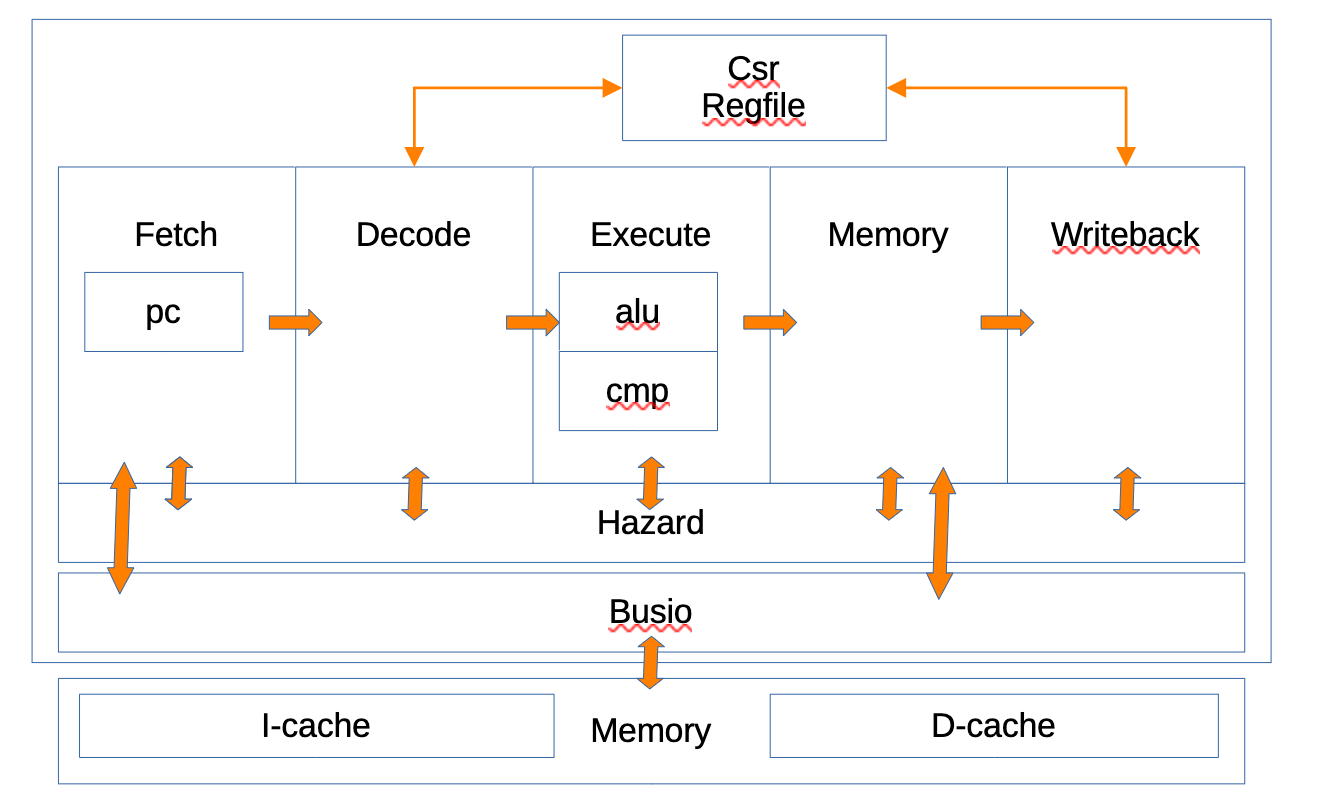
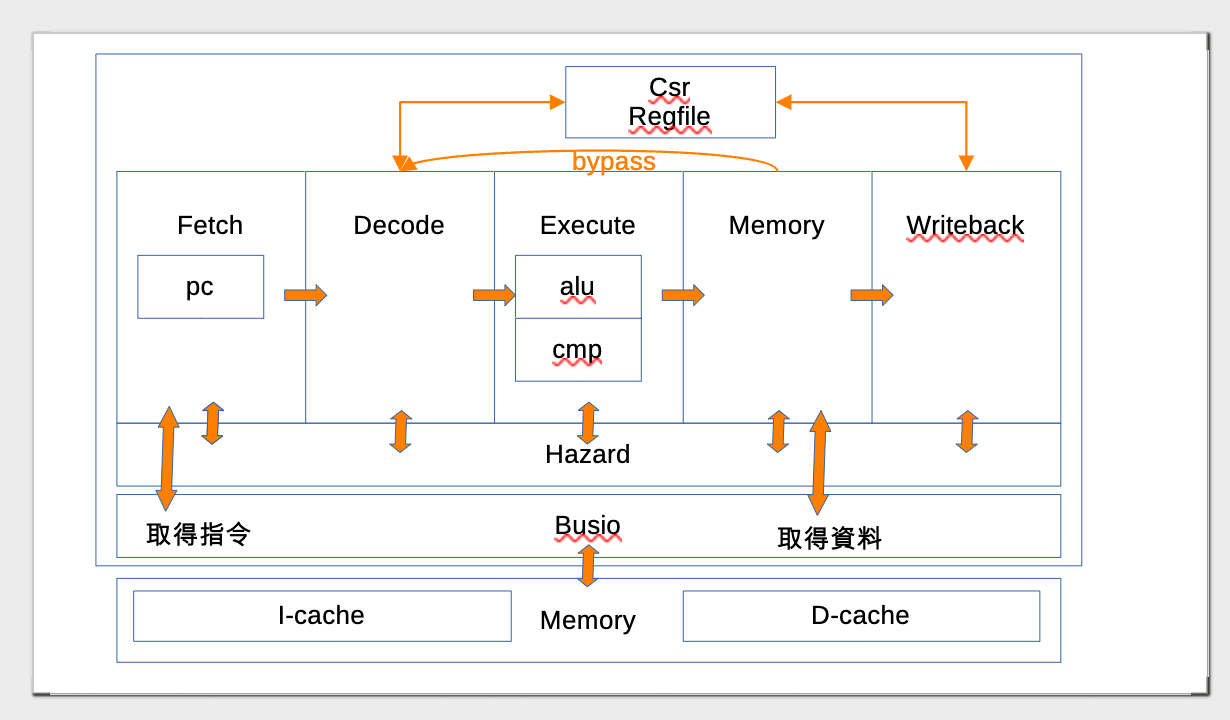
architecture.md modified

diff --git a/ccc/_doc/architecture.md b/ccc/_doc/architecture.md
@@ -1,10 +1,17 @@
-# kleine-riscv Architecture
+# Kleine-riscv Architecture
+
+
+1. Kleine-riscv 的 CPU (core.v) 是用 verilog 寫的，放在 src/ 資料夾中，包含經典的 5 階段 pipeline 與 alu/cmp/csr/regfile/hazard/busio 等模組
+2. 但是測試模組 testbench 則是用 C++ 寫的，放在 sim/ 資料夾中，像是 core.cpp/hpp, memory.cpp/hpp, simulator.cpp 等
+3. 測試所需要的機器碼，則是用 .c / .S (C 與組合語言) 寫的，放在 tests 資料夾中
+
+## 整體架構
 
 ![](../_img/kleine-riscv.png)
 
 1. 全部的 hazard 處理都集中給 hazard.v 模組
-2. hazard 和 5 階段都有互通，主要是決定 stall (停頓), valid/invalidate （是否有效或撤回）, mret, branch, 以及對 csr, rs1, rs2, rd 的讀寫 
-3. 五階段管線，前面的會傳給後面，後面不會傳給前面
+2. hazard 和 5 階段都有互通，主要是根據各階段回報的訊息，彙整決定 stall (停頓) 與 valid （是否有效）/invalidate（撤回） 
+3. 五階段管線，前面的會傳給後面，通常後面不會傳給前面
     * Fetch => Decode => Execute => Memory => Writeback
 4. 透過 busio 處理對指令快取，資料快取，與外部記憶體的存取事宜。
     * 記憶體的存取，由 Verilator 的 cpp 模組進行互動，所以不在 Verilog 的管轄，沒有對應的 *.v 檔案。
@@ -14,8 +21,44 @@
 
 1. Fetch: 根據 reset/trap/mret/branch 或者 正常遞增 pc+=4 來決定下一個 pc 的值
     * 送出 instruction 給 Decode
-2. Decode: 根據 instruction 的 op 決定要設定 ALU 與 CMP 為何種運算，存取哪些暫存器 (rs1, rs2, rd, csr)，是否跳轉 (jump) 等等。
+    * 透過  fetch_address 丟要取的指令位址給 busio，然後從 fetch_data 取得回來的指令。（丟出 address 後，不一定多久會回傳 data，因為要看指令記憶體 hit 的情況，而且這次丟位址，下次才會取回來）
+2. Decode: 根據 instruction 的 op 決定要設定 ALU 與 CMP 為何種運算
+    * 送出 (rs1, rs2) address 給 regfile 取得暫存器內容
+    * 送出 (csr_address) 給 csr 取得特殊暫存器內容。
+    * 是否跳轉 (jump) 等等。
 3. Execute: 裡面包含 ALU/CMP 兩個運算元件，真正執行運算並取得結果
+    * 若沒 stall，則送出 pc, rs2, csr, branch, jump, load, store, write, mret, wfi 等訊號給下一階段。 
 4. Memory: 決定是否更新 PC/CSR/Regfile/Memory/mret/wfi，以及是否 branch (=> hazard)
-5. Writeback: 執行 PC/CSR/Regfile/Memory/mret/wfi 的寫入動作，還有處理中斷 interrupt 並設定中斷原因 ecause
+    * 透過 mem_address 發出資料位址，將 mem_store_data 中的資料寫入記憶體，或者從 mem_load_data 中讀取資料。
+5. Writeback: 執行 CSR/Regfile[rd] 的寫入動作，還有處理中斷 interrupt 並設定中斷原因 ecause
+    * 對 fetch、csr 和 hazard 模組的輸出 trap/mret 訊號
+
+
+## ALU in Execute
+
+```verilog
+// 實例化 ALU 模組
+alu ex_alu (
+    .clk(clk), // 時鐘信號
+    .input_a(alu_input_a), // ALU 輸入 A
+    .input_b(alu_input_b), // ALU 輸入 B
+    .function_select(alu_function_in), // ALU 功能選擇
+    .function_modifier(alu_function_modifier_in), // ALU 功能修飾符
+    .add_result(alu_addition_out), // ALU 加法結果
+    .result(alu_data_out) // ALU 最終結果
+);
+```
+
+## CMP in Execute
+
+```verilog
+// 實例化比較器模組
+cmp ex_cmp (
+    .clk(clk), // 時鐘信號
+    .input_a(acctual_rs1), // 輸入 A
+    .input_b(acctual_rs2), // 輸入 B
+    .function_select(cmp_function_in), // 比較功能選擇
+    .result(cmp_output_out) // 比較結果輸出
+);
+```
 
